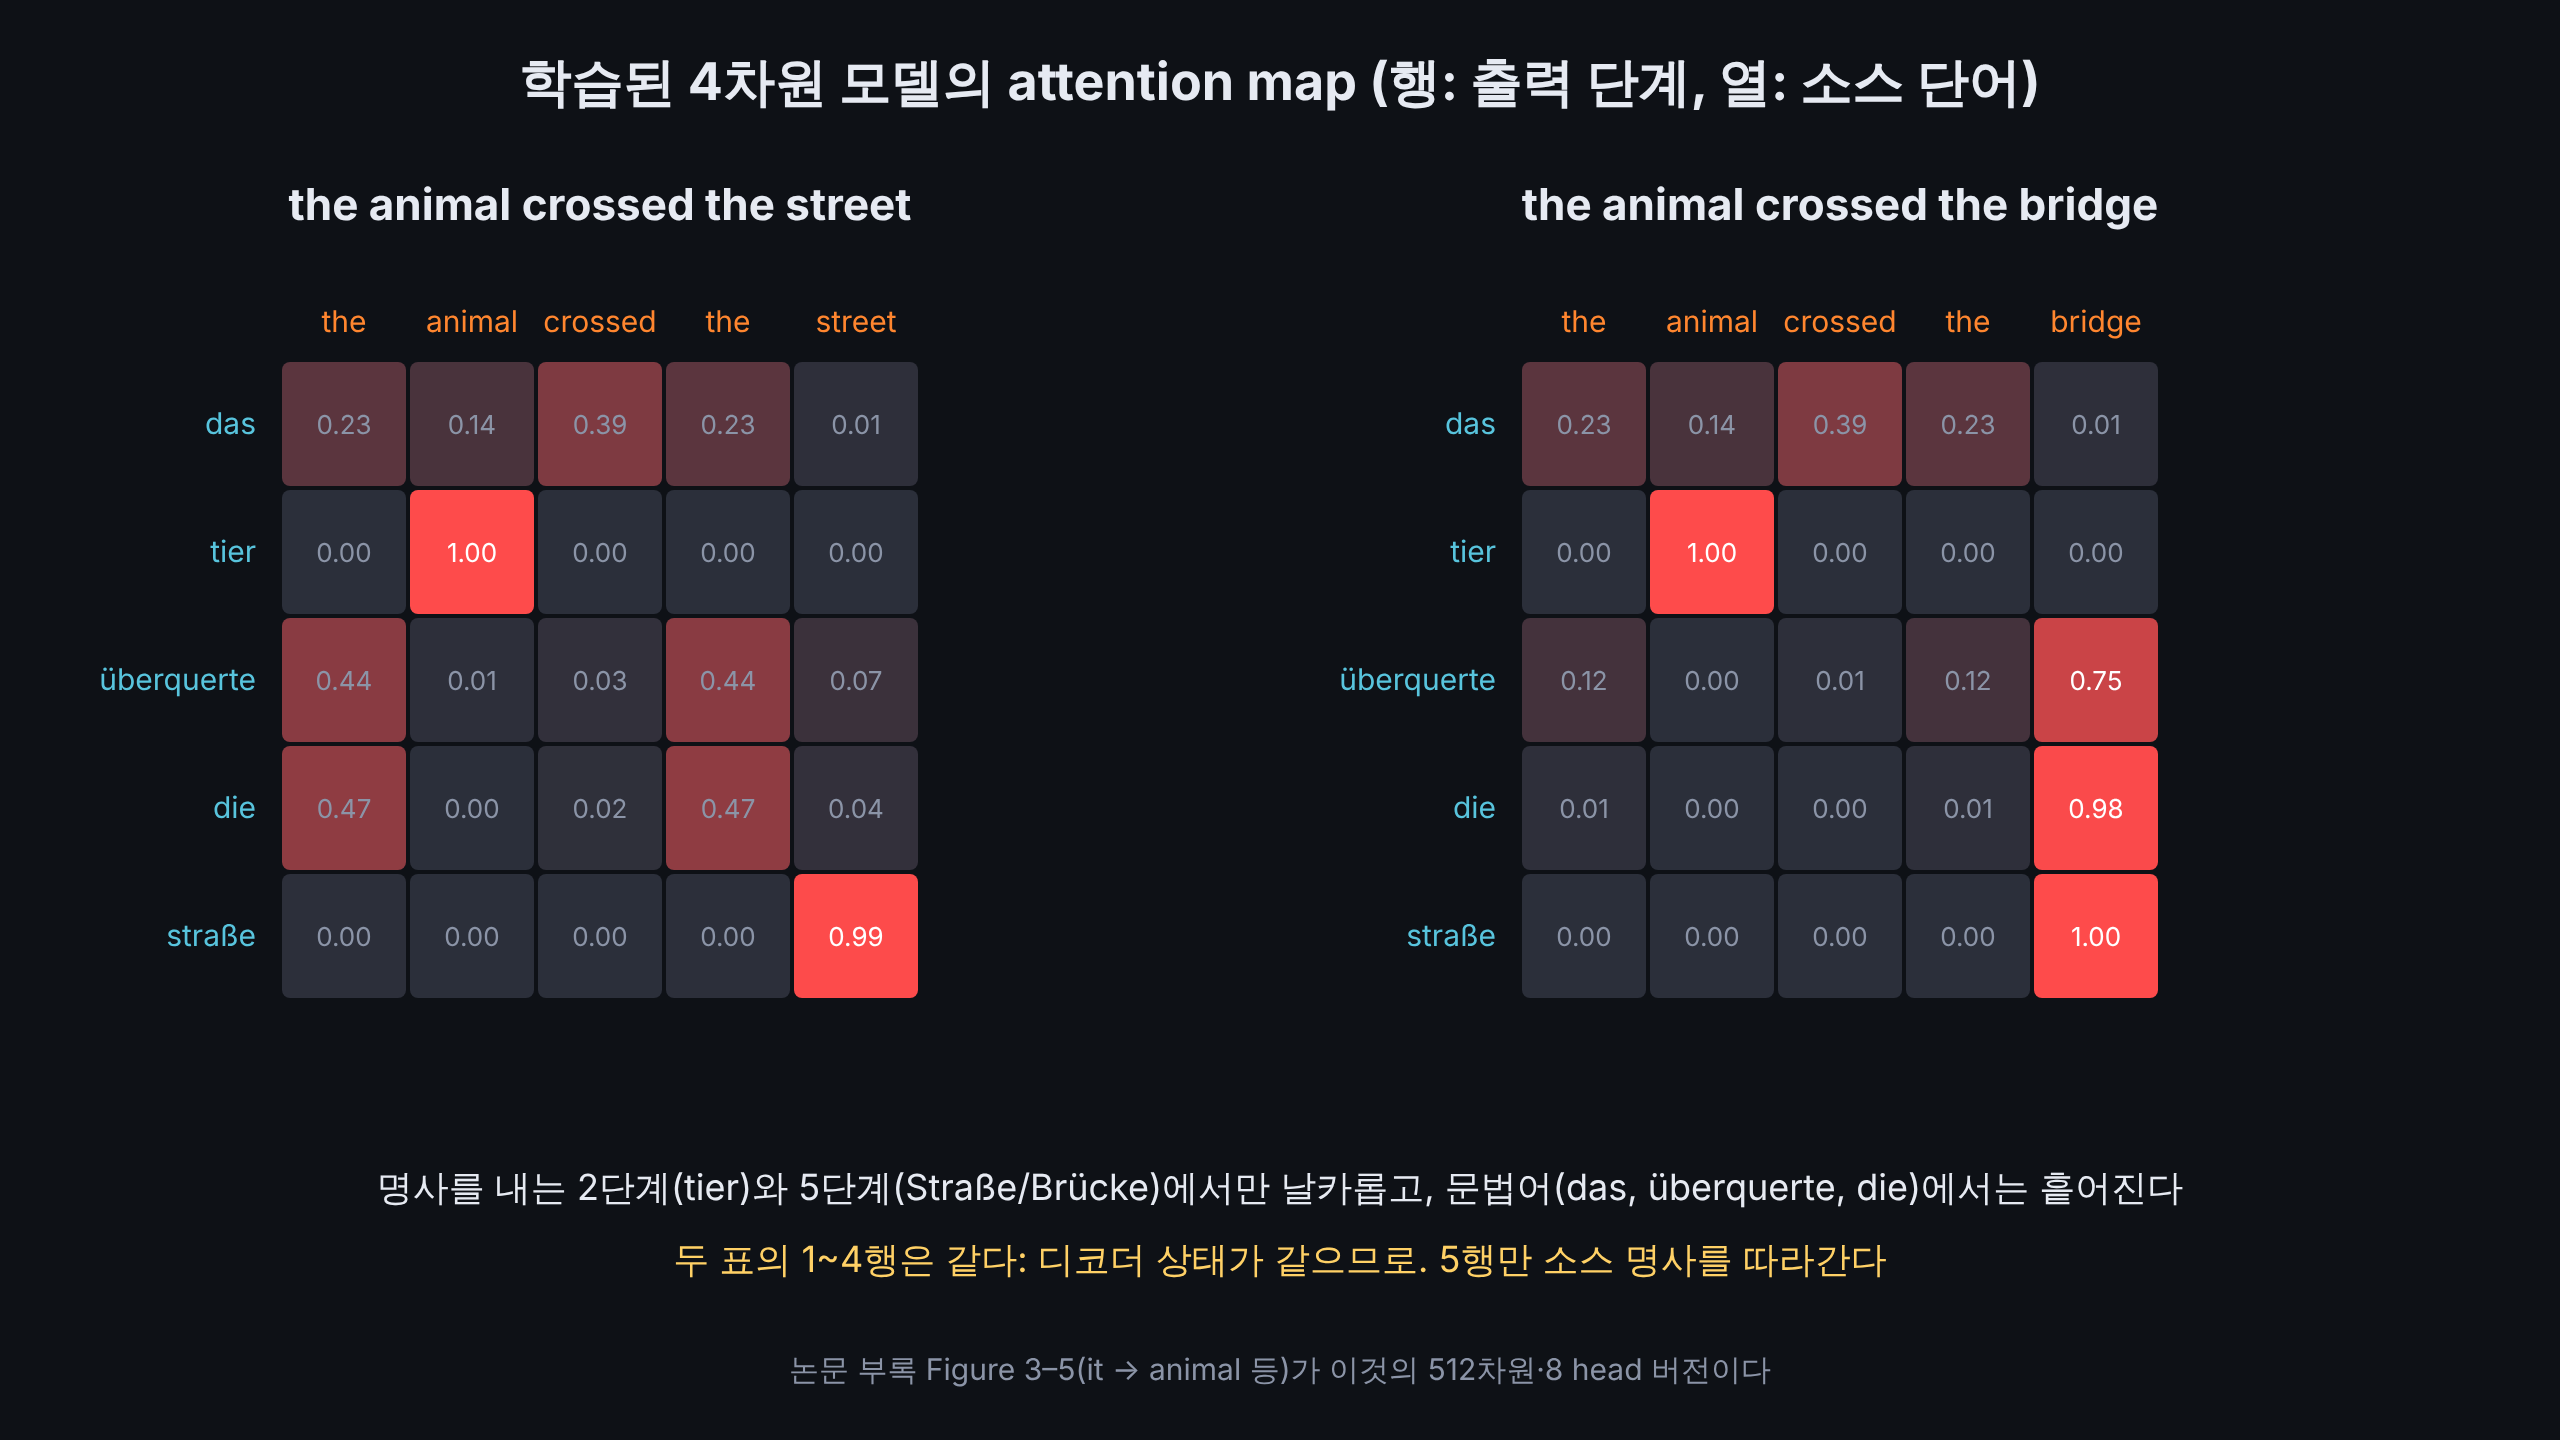
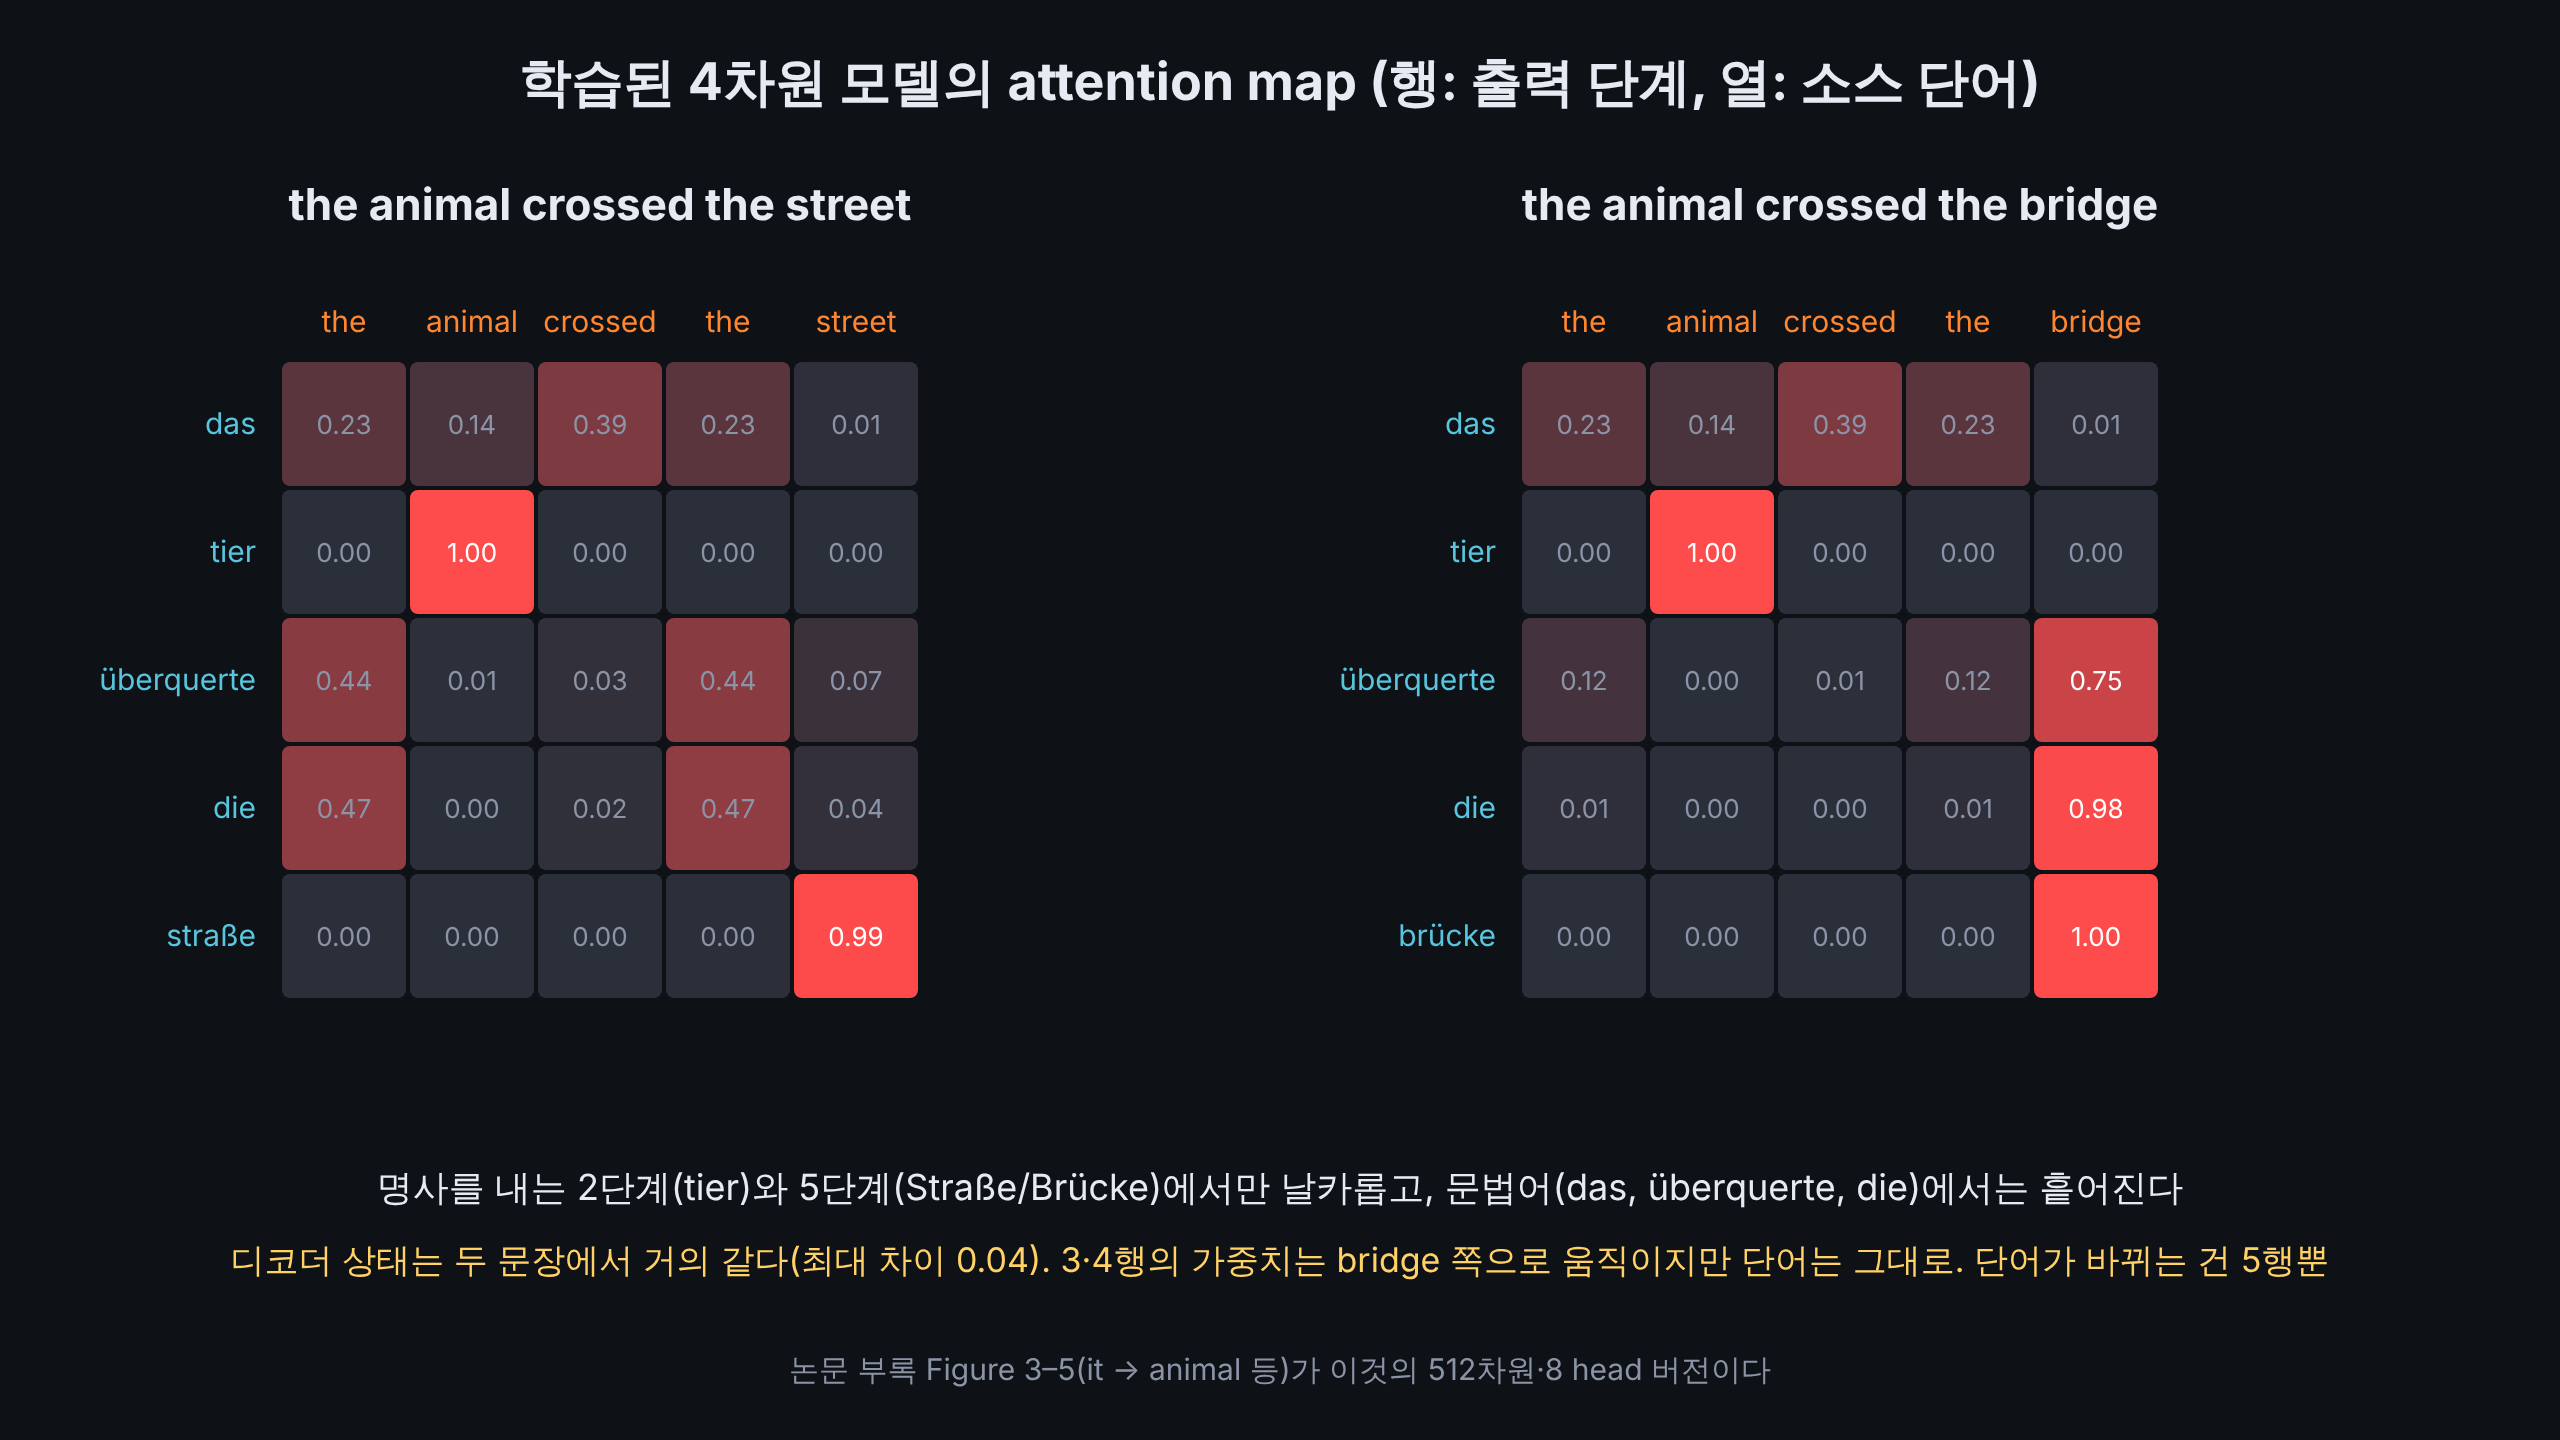
Fix bridge attention-map row labels and correct the rows-identical claim
Claude-Session: https://claude.ai/code/session_013P1oFAkGwojaPVzYDUZFwd

diff --git a/lecture/slides/figures.js b/lecture/slides/figures.js
@@ -137,18 +137,18 @@ FIG.fig1 = (() => {
 })();
 
 // ---------------------------------------------------------------- alignment matrix from the trained model
-FIG.alignment = (A, Aalt, src, srcAlt, tgt) => {
+FIG.alignment = (A, Aalt, src, srcAlt, tgt, tgtAlt) => {
   const cell = 64;
-  const grid = (M, x0, y0, cols, title) => {
+  const grid = (M, x0, y0, cols, rows, title) => {
     let g = T(x0 + cols.length * cell / 2, y0 - 70, title, { size: 22, anchor: "middle", w: 650 });
     cols.forEach((w, j) => g += T(x0 + j * cell + cell / 2, y0 - 14, w, { size: 15, anchor: "middle", fill: C.k }));
-    M.forEach((row, i) => { g += T(x0 - 12, y0 + i * cell + cell / 2 + 5, tgt[i], { size: 15, anchor: "end", fill: C.q }); row.forEach((a, j) => { g += R(x0 + j * cell + 1, y0 + i * cell + 1, cell - 2, cell - 2, { rx: 4, fill: heat(a) }) + T(x0 + j * cell + cell / 2, y0 + i * cell + cell / 2 + 5, a.toFixed(2), { size: 13, anchor: "middle", fill: a > 0.5 ? "#fff" : C.dim }); }); });
+    M.forEach((row, i) => { g += T(x0 - 12, y0 + i * cell + cell / 2 + 5, rows[i], { size: 15, anchor: "end", fill: C.q }); row.forEach((a, j) => { g += R(x0 + j * cell + 1, y0 + i * cell + 1, cell - 2, cell - 2, { rx: 4, fill: heat(a) }) + T(x0 + j * cell + cell / 2, y0 + i * cell + cell / 2 + 5, a.toFixed(2), { size: 13, anchor: "middle", fill: a > 0.5 ? "#fff" : C.dim }); }); });
     return g;
   };
   let s = svgOpen + defs + T(640, 50, "학습된 4차원 모델의 attention map (행: 출력 단계, 열: 소스 단어)", { size: 26, anchor: "middle", w: 650 });
-  s += grid(A, 140, 180, src, "the animal crossed the street") + grid(Aalt, 760, 180, srcAlt, "the animal crossed the bridge");
+  s += grid(A, 140, 180, src, tgt, "the animal crossed the street") + grid(Aalt, 760, 180, srcAlt, tgtAlt, "the animal crossed the bridge");
   s += T(640, 600, "명사를 내는 2단계(tier)와 5단계(Straße/Brücke)에서만 날카롭고, 문법어(das, überquerte, die)에서는 흩어진다", { size: 18, anchor: "middle" });
-  s += T(640, 636, "두 표의 1~4행은 같다: 디코더 상태가 같으므로. 5행만 소스 명사를 따라간다", { size: 18, anchor: "middle", fill: C.acc });
+  s += T(640, 636, "디코더 상태는 두 문장에서 거의 같다(최대 차이 0.04). 3·4행의 가중치는 bridge 쪽으로 움직이지만 단어는 그대로. 단어가 바뀌는 건 5행뿐", { size: 17, anchor: "middle", fill: C.acc });
   s += T(640, 690, "논문 부록 Figure 3–5(it → animal 등)가 이것의 512차원·8 head 버전이다", { size: 15, anchor: "middle", fill: C.dim });
   return s + "</svg>";
 };
